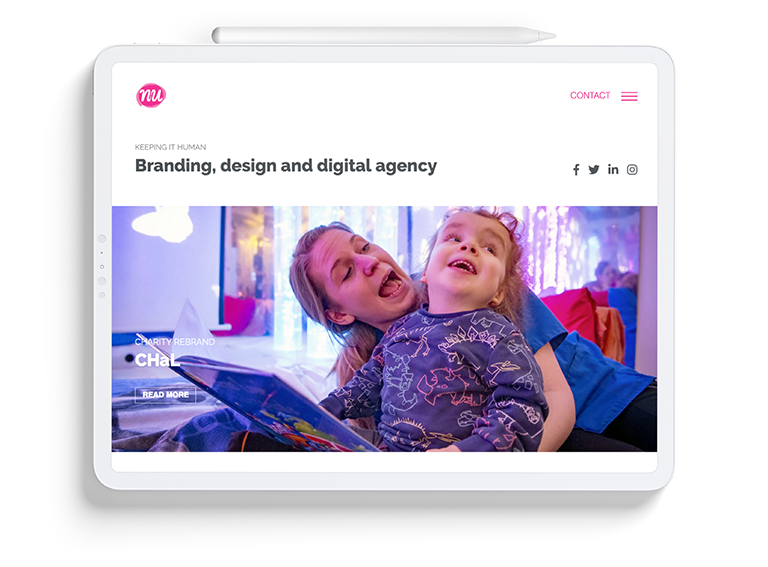
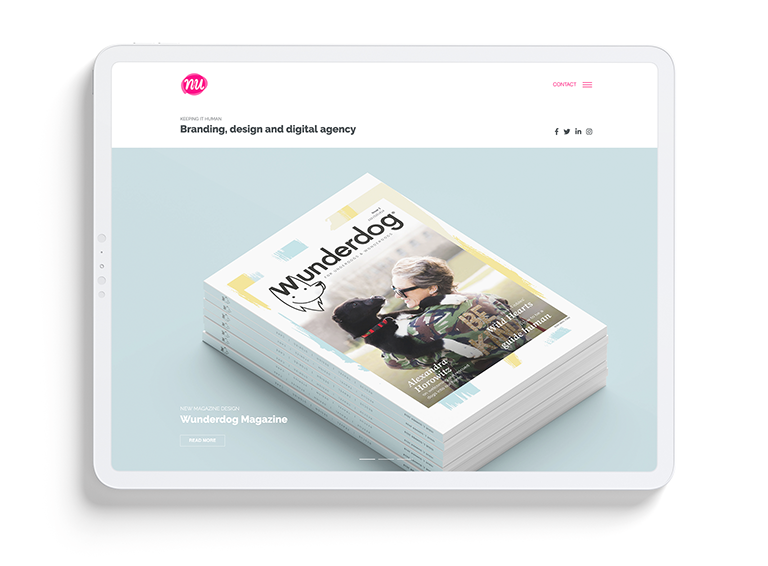
Update the NU Creative project image to use the Wunderdog image

diff --git a/src/components/Landing.vue b/src/components/Landing.vue
@@ -10,8 +10,7 @@
     </transition>
     <transition appear name="fade">
       <div class="illustration">
-        <svg version="1.1" id="Base" xmlns="http://www.w3.org/2000/svg" xmlns:xlink="http://www.w3.org/1999/xlink" x="0px" y="0px"
-	 viewBox="0 0 1041.3 554.2" style="enable-background:new 0 0 1041.3 554.2;" xml:space="preserve" ref="svg">
+        <svg version="1.1" id="Base" xmlns="http://www.w3.org/2000/svg" xmlns:xlink="http://www.w3.org/1999/xlink" x="0px" y="0px" viewBox="0 0 1041.3 554.2" style="enable-background:new 0 0 1041.3 554.2;" xml:space="preserve" ref="svg">
         <g id="Background">
           <path class="st0" d="M961.5,438.2c-1.2,2.5-2.3,5-3.5,7.4c-1.8,3.8-3.6,7.5-5.3,11.1c-0.8,1.6-1.6,3.2-2.3,4.8
             c-8.6,17.6-16.6,33.1-23.5,45.9c-12.6,23.6-37.1,38.4-63.8,38.7l-151.6,1.7h-1.6l-13,0.1l-11.1,0.1l-34.1,0.4h-1.4l-17.4,0.2h-0.5
